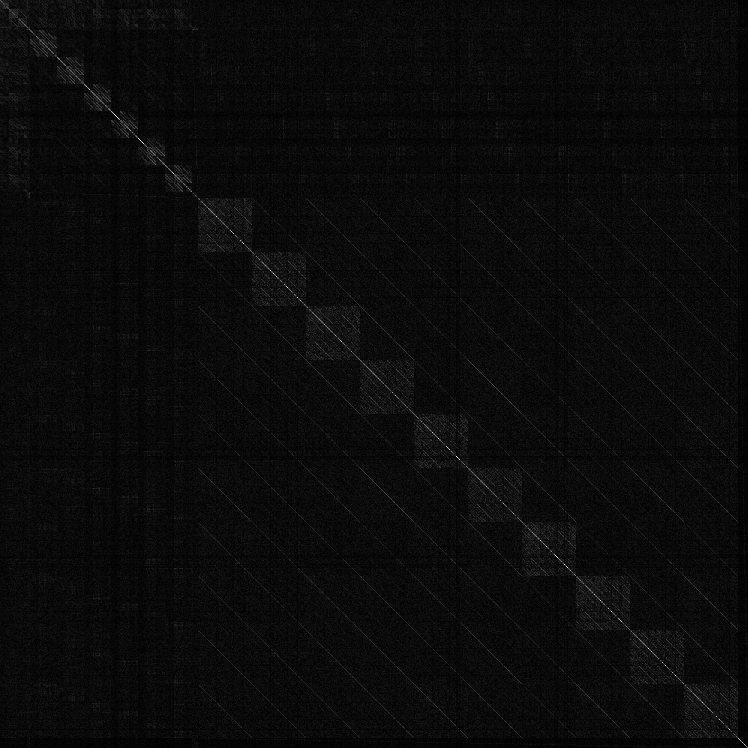
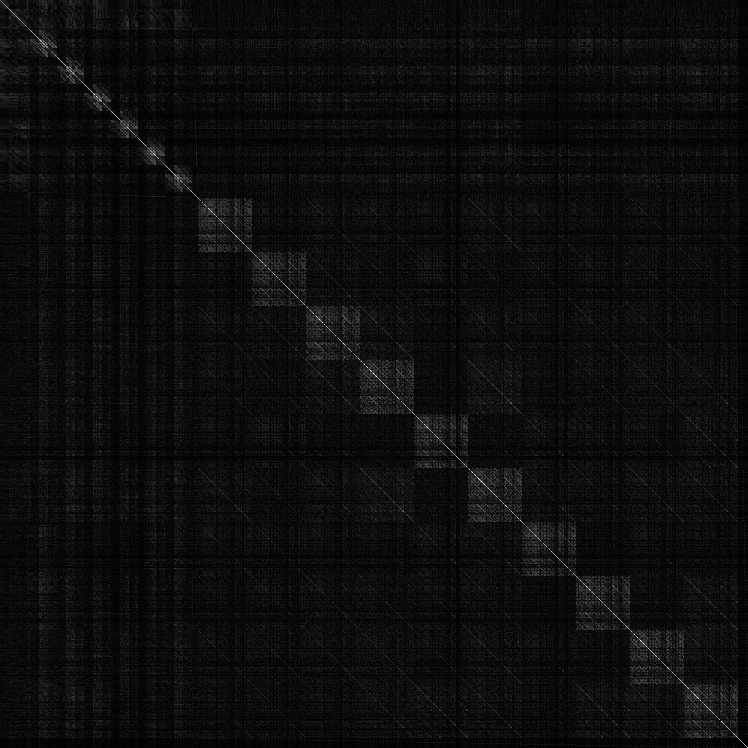
fix: fix bug

diff --git a/sampling_free/classification/classification_ll_dense.py b/sampling_free/classification/classification_ll_dense.py
@@ -2,10 +2,8 @@ from re import X
 import sys
 import os
 
-from torch._C import _has_torch_function_variadic
-os.environ["CUDA_VISIBLE_DEVICES"] = "5"
+os.environ["CUDA_VISIBLE_DEVICES"] = "4"
 
-from numpy.core.function_base import add_newdoc
 current = os.path.dirname(os.path.realpath(__file__))
 parent = os.path.dirname(os.path.dirname(current))
 sys.path.append(parent)
@@ -34,7 +32,7 @@ def tensor_to_image(tensor):
     min = tensor.min().item()
     max = tensor.max().item()
     norm = (tensor - min) / (max-min)
-    image = Image.fromarray(np.uint8(255*torch.sqrt(norm).numpy())).convert('RGB')
+    image = Image.fromarray(np.uint8(255*torch.sqrt(norm).cpu().numpy())).convert('RGB')
     return image
 
 # file path
@@ -69,11 +67,10 @@ test_set = datasets.MNIST(root=data_path,
                                         download=True)
 test_loader = DataLoader(test_set, batch_size=256)
 
-N = 200
-std = 0.1
+std = 0.2
 
 # Train the model
-net = BaseNet_750()
+net = BaseNet_15k()
 net.weight_init(std)
 if device == 'cuda': 
     net.to(torch.device('cuda'))
@@ -106,18 +103,21 @@ for images, labels in tqdm(train_loader):
     H_loss = J_loss.t() @ J_loss
     H_loss.requires_grad = False
     H = H_loss if H == None else H + H_loss
-            
-H = H.cpu()/len(train_loader) 
 
-diag = torch.diag(std * torch.ones(H.shape[0]))
-H_inv = torch.linalg.pinv(N * H + diag)
+torch.cuda.empty_cache()           
+H = H/len(train_loader) 
+
+diag = torch.diag((std**2) * torch.ones(H.shape[0])).to(device)
+H_inv = torch.pinverse(H + diag)
 
 H_diag = torch.diag(H)
-H_inv_diag = torch.diag(torch.reciprocal(N * H_diag + std * torch.ones(H.shape[0])))
+H_inv_diag = torch.diag(torch.reciprocal(H_diag + (std**2) * torch.ones(H.shape[0])))
 
 mean_dense = torch.diag(H_inv).abs().sum().item()
 mean_diag = H_inv_diag.abs().sum().item()
 H_inv_diag_norm = H_inv_diag * mean_dense / mean_diag
+
+'''
 
 image_inv = tensor_to_image(H_inv.abs())
 image_inv.save(result_path+'images/H_inv_15k_dense.png')
@@ -127,7 +127,8 @@ image_inv_diag.save(result_path+'images/H_inv_15k_diag.png')
 
 image_error = tensor_to_image(torch.abs(H_inv-H_inv_diag_norm))
 image_error.save(result_path+'images/error_15k.png')
-
+'''
 torch.save(H, result_path+'tensor/H_dense_15k.pt')
 torch.save(H_inv, result_path+'tensor/H_inv_dense_15k.pt')
 torch.save(H_inv_diag, result_path+'tensor/H_inv_diag_15k.pt')
+
